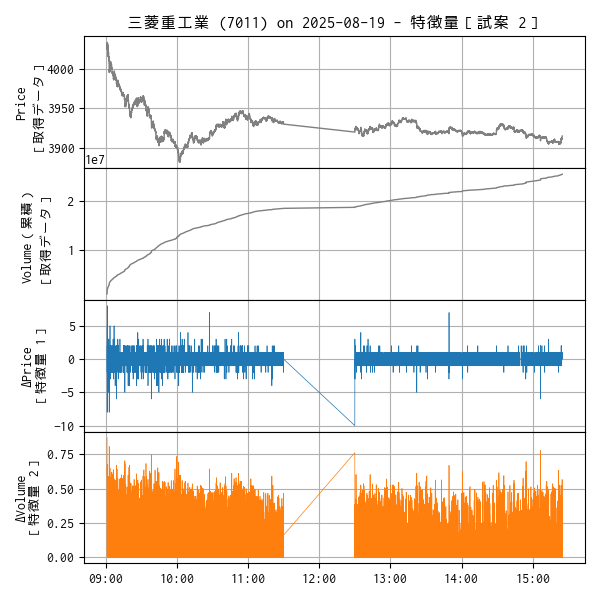
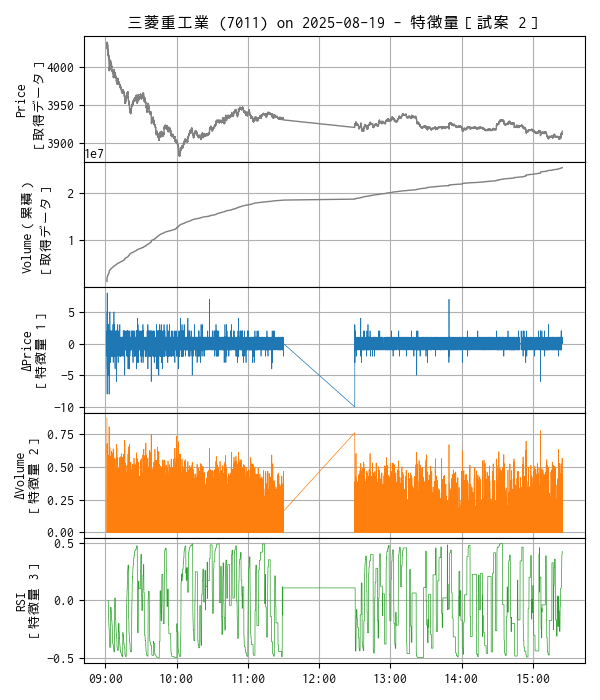
update

diff --git a/modules/trading_env.py b/modules/trading_env.py
@@ -153,7 +153,7 @@ class TradingEnv(gym.Env):
         super().__init__()
         self.df = df.reset_index(drop=True)  # Time, Price, Volume のみ
         # ウォームアップ期間
-        self.period = 5
+        self.period = 60
         # 特徴量の列名のリストが返る
         self.cols_features = self._add_features(self.period)
         # 現在の行位置
@@ -186,6 +186,8 @@ class TradingEnv(gym.Env):
         colname = "dVol"
         self.df[colname] = np.log1p(self.df["Volume"].diff() / unit) / factor_ticker
         list_features.append(colname)
+
+        # 3. RSI
 
         return list_features
 
